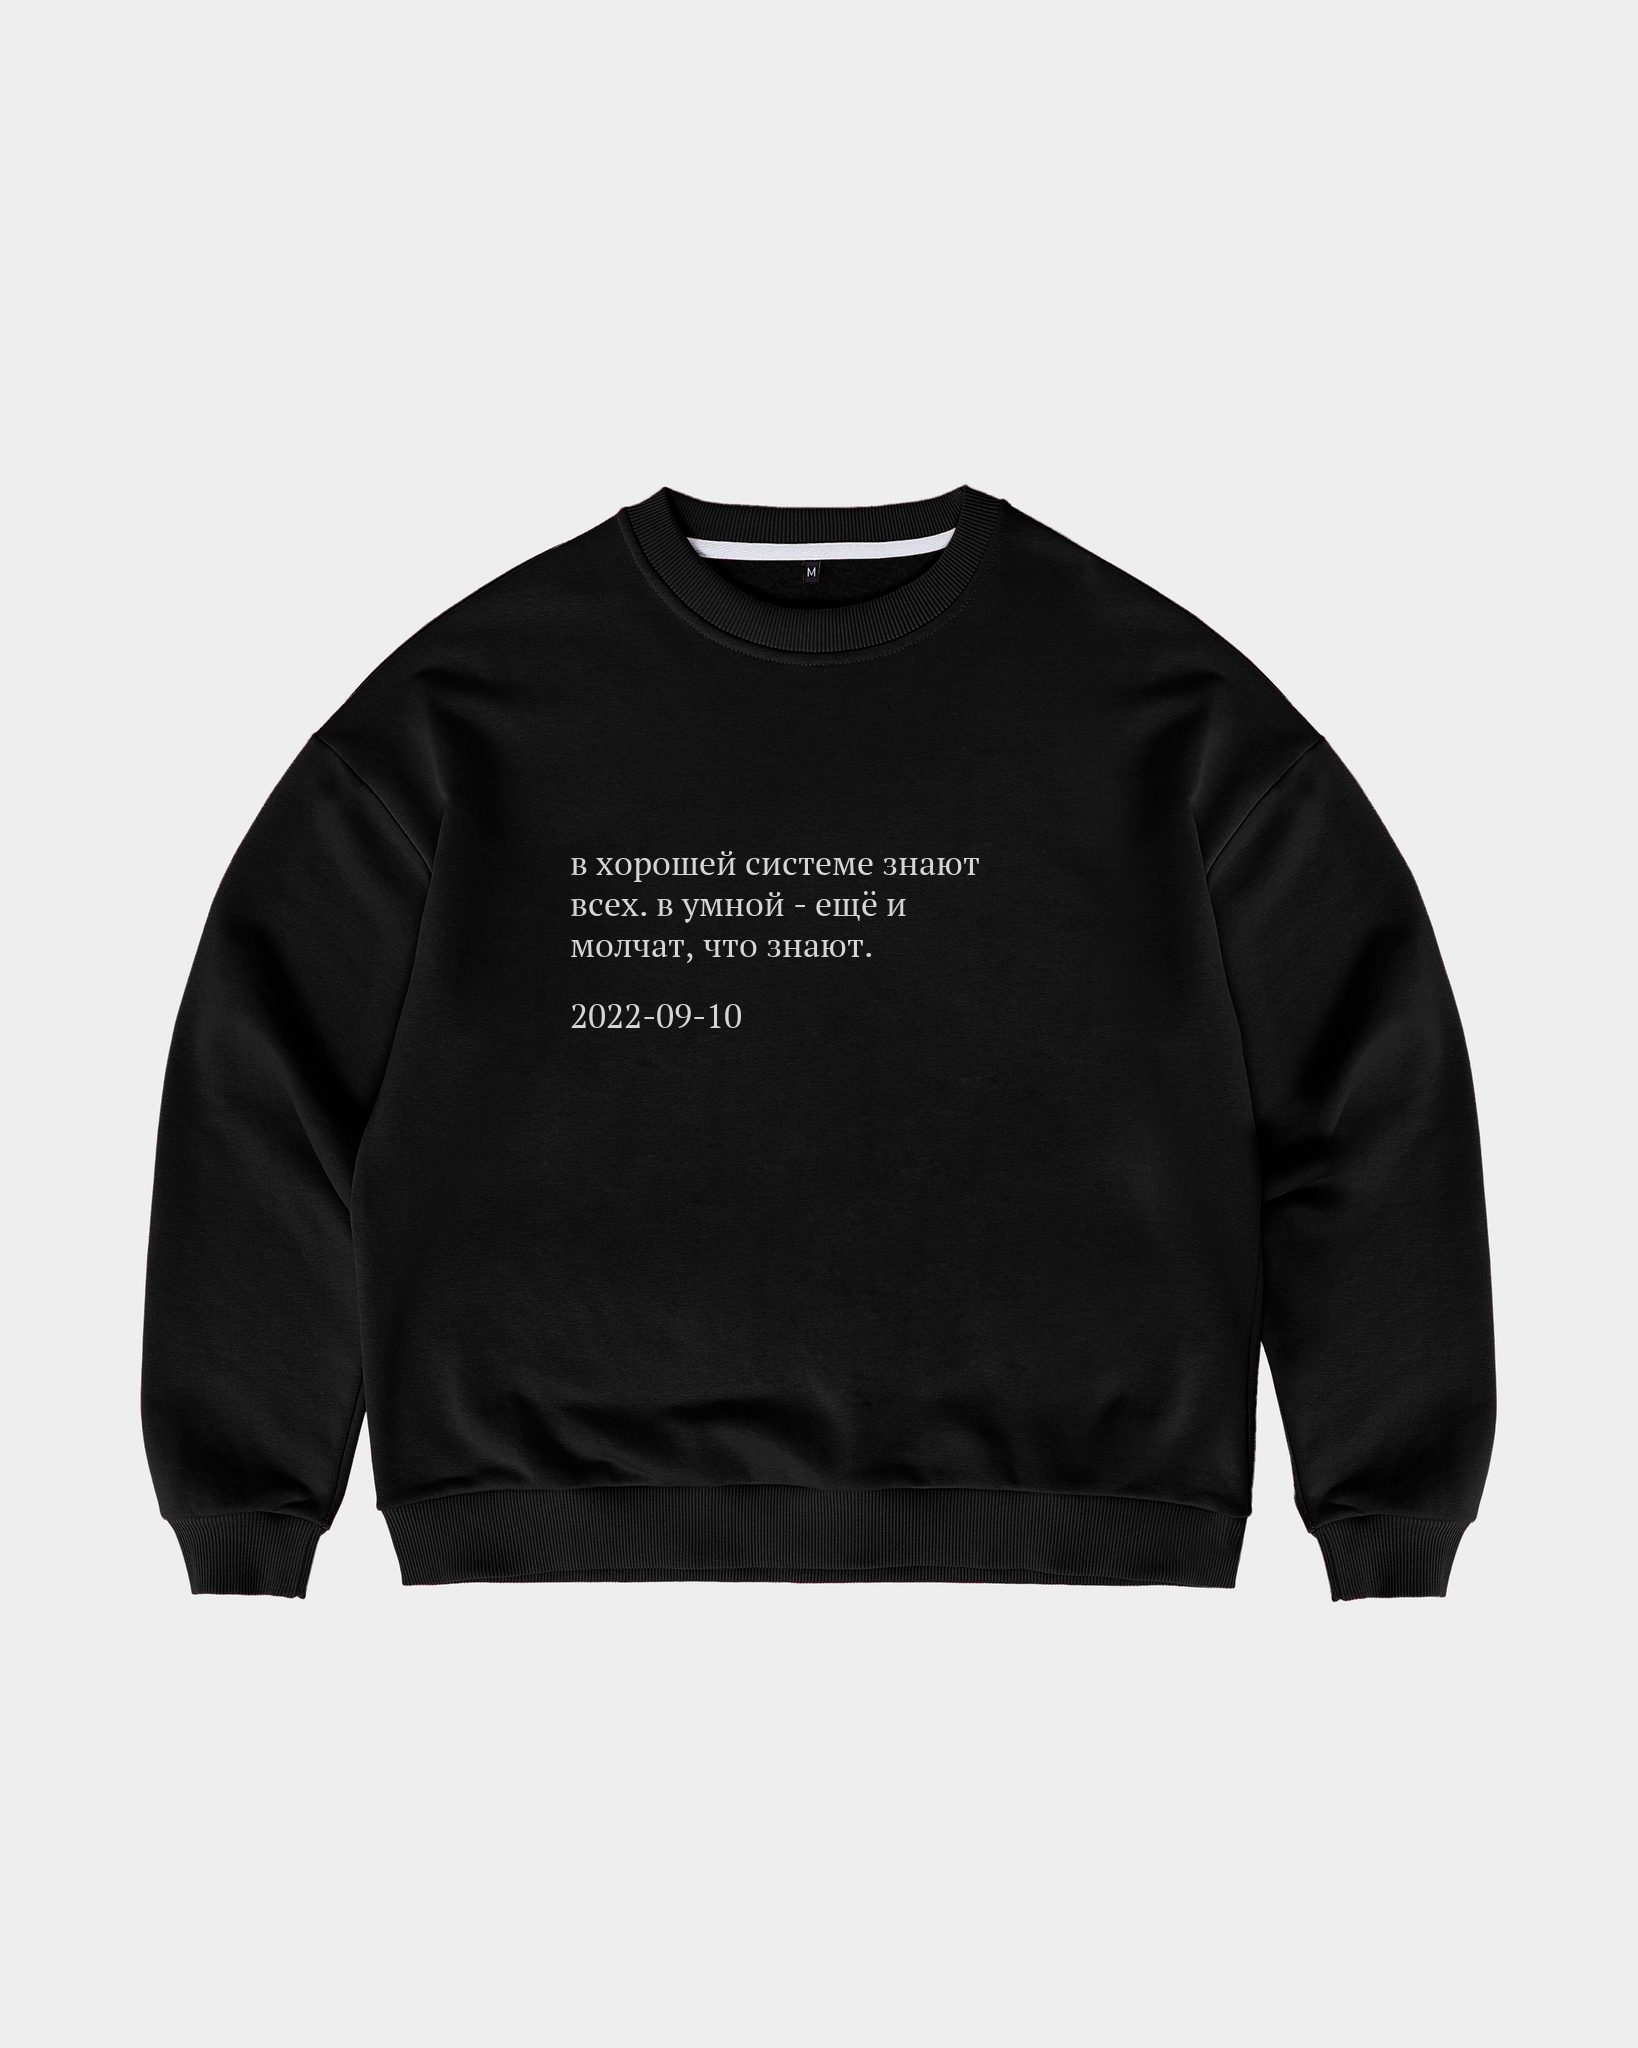
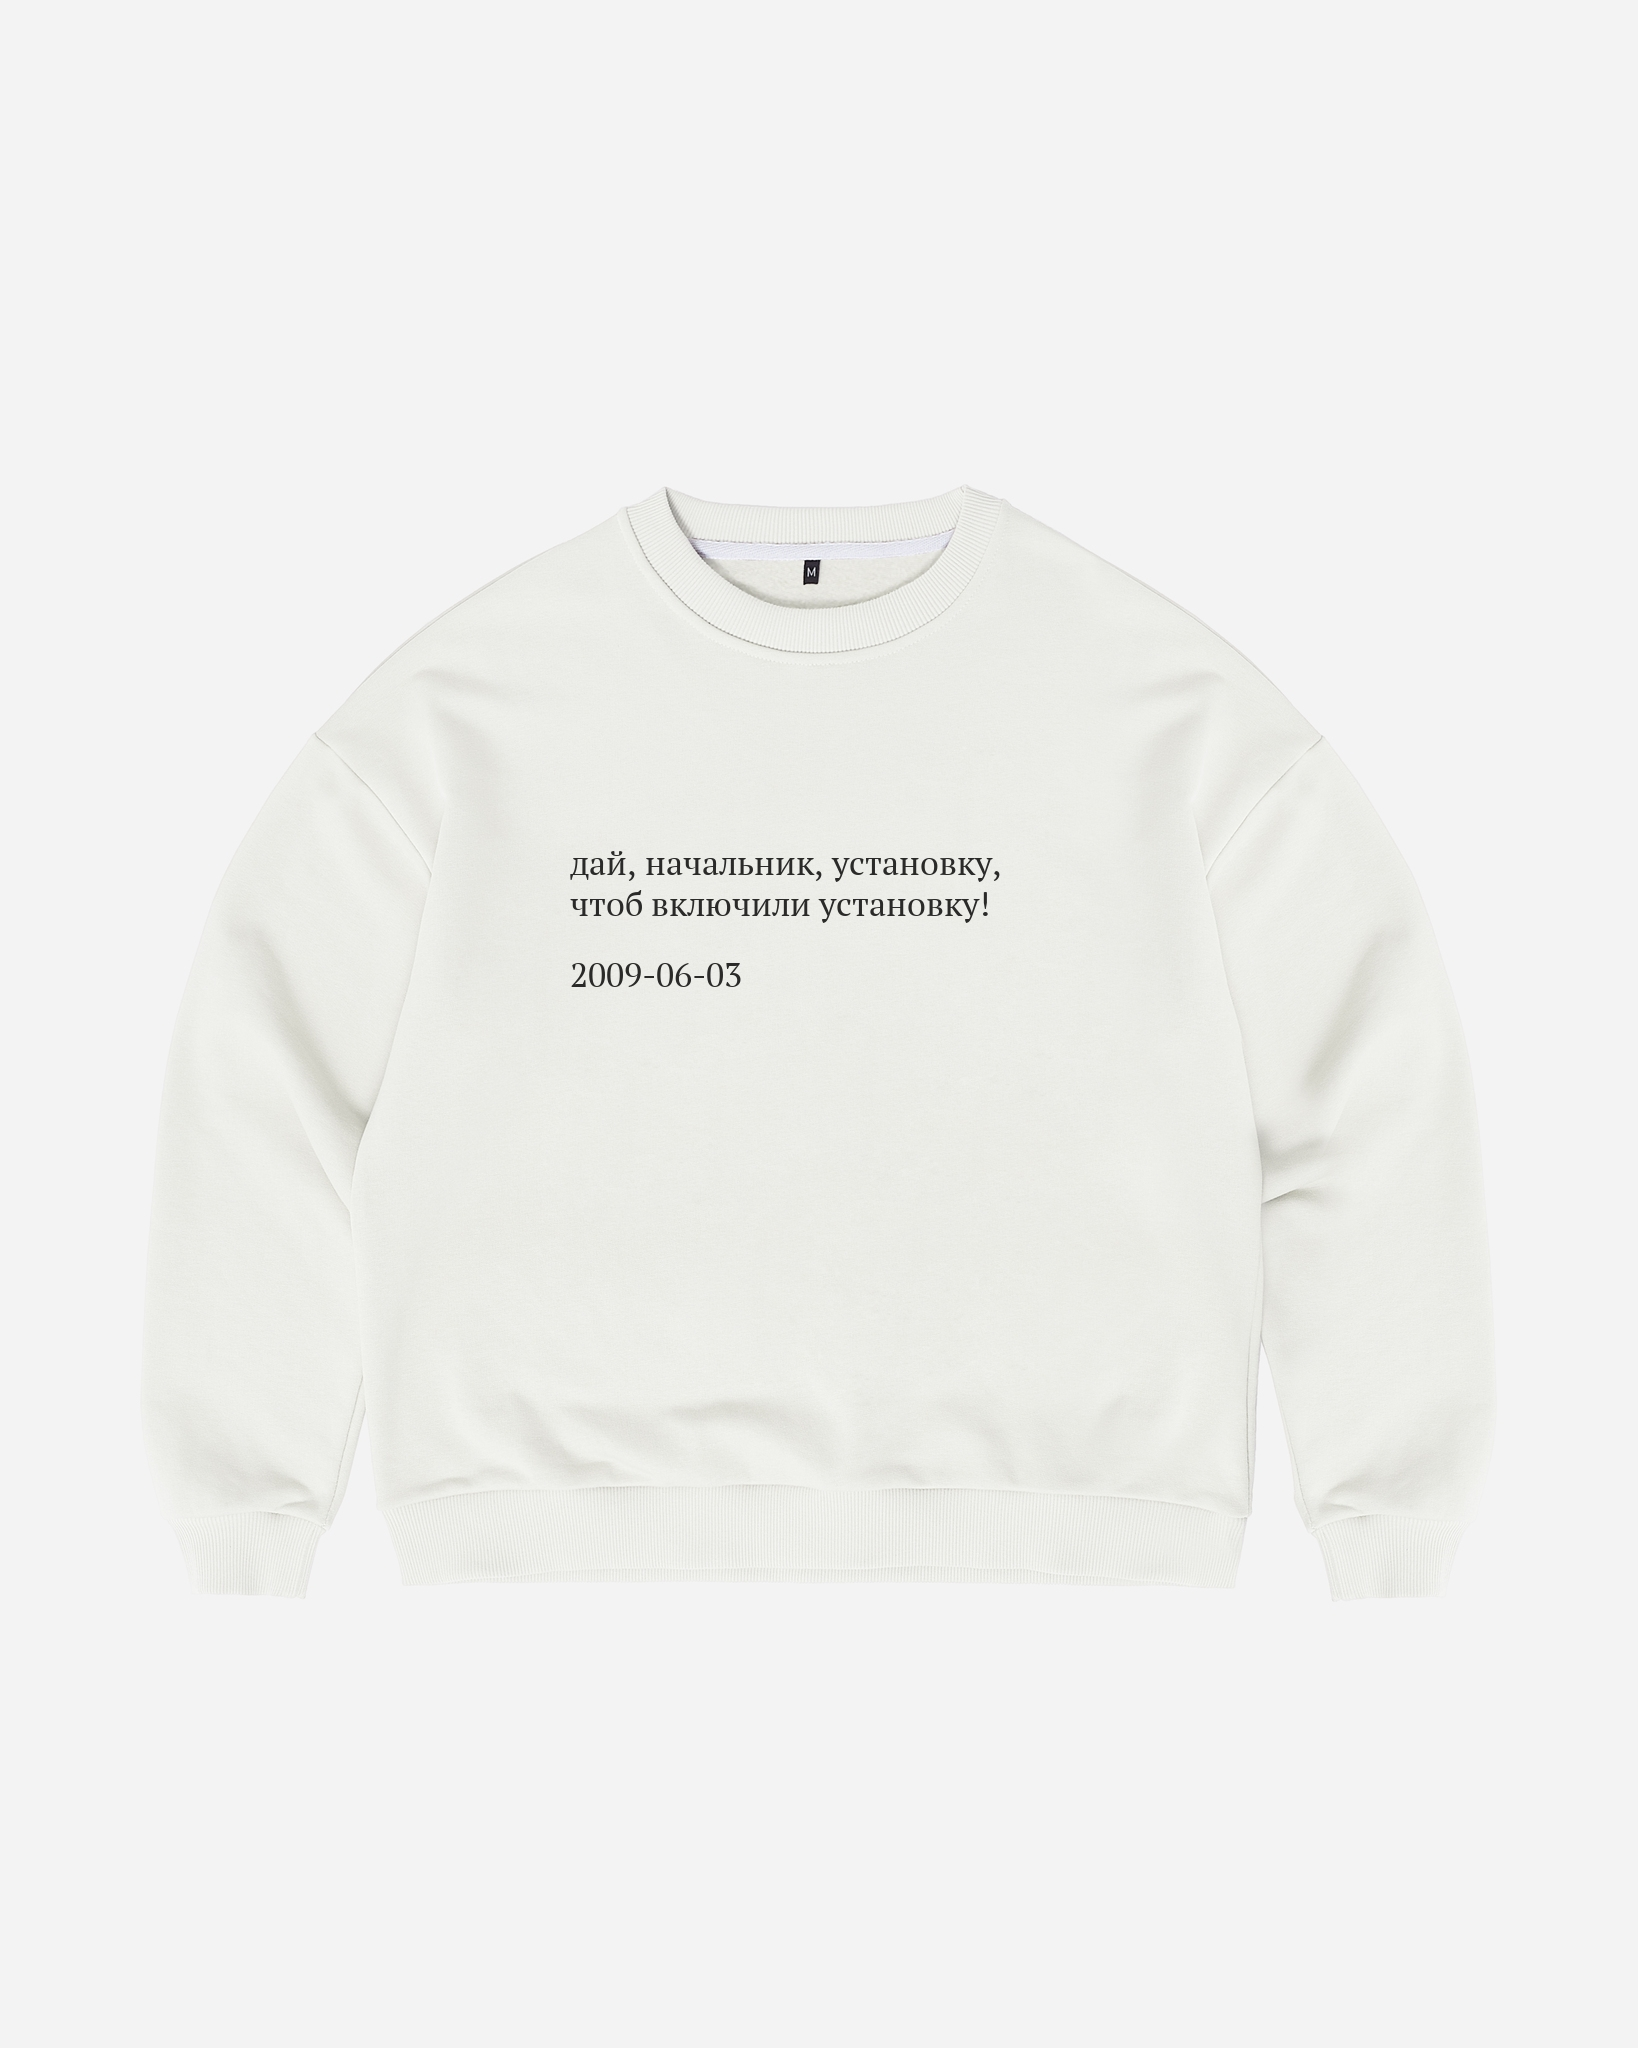
added the ability to select "anekdote"

diff --git a/parsing jokes/src/main/java/ClothesPrint.java b/parsing jokes/src/main/java/ClothesPrint.java
@@ -21,16 +21,21 @@ public class ClothesPrint {
 
     public void makePrint(List<String> data, Clothes clothes, Color textColor) {
         Map<String, int[]> mdata = new HashMap<>();
-        // x, y, text size, wordsPerPar, spacing
-        mdata.put("sweatshirt", new int[] {570, 875, 34, 22, 41});
-        mdata.put("tshirt", new int[] {526, 823, 34, 22, 41});
-        mdata.put("hoodies", new int[] {248, 352, 17, 17, 18});
+//       x | y | text size | wordsPerPar| spacing
+        mdata.put("sweatshirt", new int[]
+                {570, 875, 34, 22, 41}
+        );
+        mdata.put("tshirt", new int[]
+                {526, 823, 34, 22, 41}
+        );
+        mdata.put("hoodies", new int[]
+                {248, 352, 17, 17, 18}
+        );
 
         int[] mDataArr = mdata.get(clothes.type);
         List<String> res = divideIntoParagraphs(data.get(0).toLowerCase(), mDataArr[3]);
 
         uploadResources(clothes, mDataArr);
-
 
         Graphics g = image.getGraphics();
         Graphics2D g2d = (Graphics2D) g;
@@ -52,7 +57,6 @@ public class ClothesPrint {
             g2d.drawString(re, mDataArr[0], mDataArr[1]);
             mDataArr[1] += mDataArr[4];
         }
-
         mDataArr[1] += (mDataArr[4]/2) + (mDataArr[4]/4);
         g2d.drawString(data.get(1), mDataArr[0], mDataArr[1]);
         g2d.dispose();
@@ -62,8 +66,8 @@ public class ClothesPrint {
         jpegParams.setCompressionMode(ImageWriteParam.MODE_EXPLICIT);
         jpegParams.setCompressionQuality(1f);
 
-        ImageWriter writer = ImageIO.getImageWritersByFormatName("jpg").next();
         try {
+            ImageWriter writer = ImageIO.getImageWritersByFormatName("jpg").next();
             writer.setOutput(new FileImageOutputStream(new File("src/main/java/imgs/result.jpg")));
             writer.write(null, new IIOImage(image, null, null), jpegParams);
         } catch (IOException e) {

diff --git a/parsing jokes/src/main/java/JokeService.java b/parsing jokes/src/main/java/JokeService.java
@@ -9,15 +9,17 @@ import java.util.List;
 import java.util.Random;
 
 public class JokeService {
-    private static Document page;
-    private List<String> data = new ArrayList<>();
+    private final List<String> data = new ArrayList<>();
 
-    public List<String> getJoke() {
+    public List<String> getJoke(String type) {
         String randomDate = getRandomDate();
-        String res = getText(randomDate);
+        String res = getText(randomDate, type);
 
-        while(res.toCharArray().length > 70) {
-            res = getText(randomDate);
+        int lim = 70;
+        if(type.equals("anekdot")) lim = 85;
+
+        while(res.toCharArray().length > lim) {
+            res = getText(randomDate, type);
             randomDate = getRandomDate();
             System.out.println(res.toCharArray().length);
         }
@@ -38,19 +40,18 @@ public class JokeService {
         return formatter.format(randomDate);
     }
 
-    public static String getText(String date) {
+    public static String getText(String date, String type) {
+        Document page;
         try {
-            page = Jsoup.connect("https://www.anekdot.ru/release/aphorism/day/" + date + "/").get();
-//            jokes = Jsoup.connect("https://www.anekdot.ru/release/anekdot/week/1997-16/2").get();
+            page = Jsoup.connect("https://www.anekdot.ru/release/" + type + "/day/" + date + "/").get();
         } catch (IOException e) {
             throw new RuntimeException(e);
         }
 
         var element = page.getElementsByClass("text");
         Random r = new Random();
-        String text = element.get(r.nextInt(element.size())).text();
 
-        return text;
+        return element.get(r.nextInt(element.size())).text();
     }
 
 }

diff --git a/parsing jokes/src/main/java/Main.java b/parsing jokes/src/main/java/Main.java
@@ -1,18 +1,15 @@
-
 import java.awt.*;
-import java.io.IOException;
-
 import java.util.List;
 
 public class Main {
-
     private static final JokeService jokeService = new JokeService();
     private static final ClothesPrint clothesPrint = new ClothesPrint();
 
-    public static void main(String[] args) throws IOException {
-        List<String> data = jokeService.getJoke();
+    public static void main(String[] args) {
+//        anekdot, aphorism
+        List<String> data = jokeService.getJoke("poems");
 //        clothesPrint.makePrint(data, new Clothes("tshirt", "pinkishgrey"), Color.BLACK);
 //        clothesPrint.makePrint(data, new Clothes("hoodies", "black"), Color.WHITE);
-        clothesPrint.makePrint(data, new Clothes("sweatshirt", "black"), Color.WHITE);
+        clothesPrint.makePrint(data, new Clothes("sweatshirt", "milk"), Color.BLACK);
     }
 }
